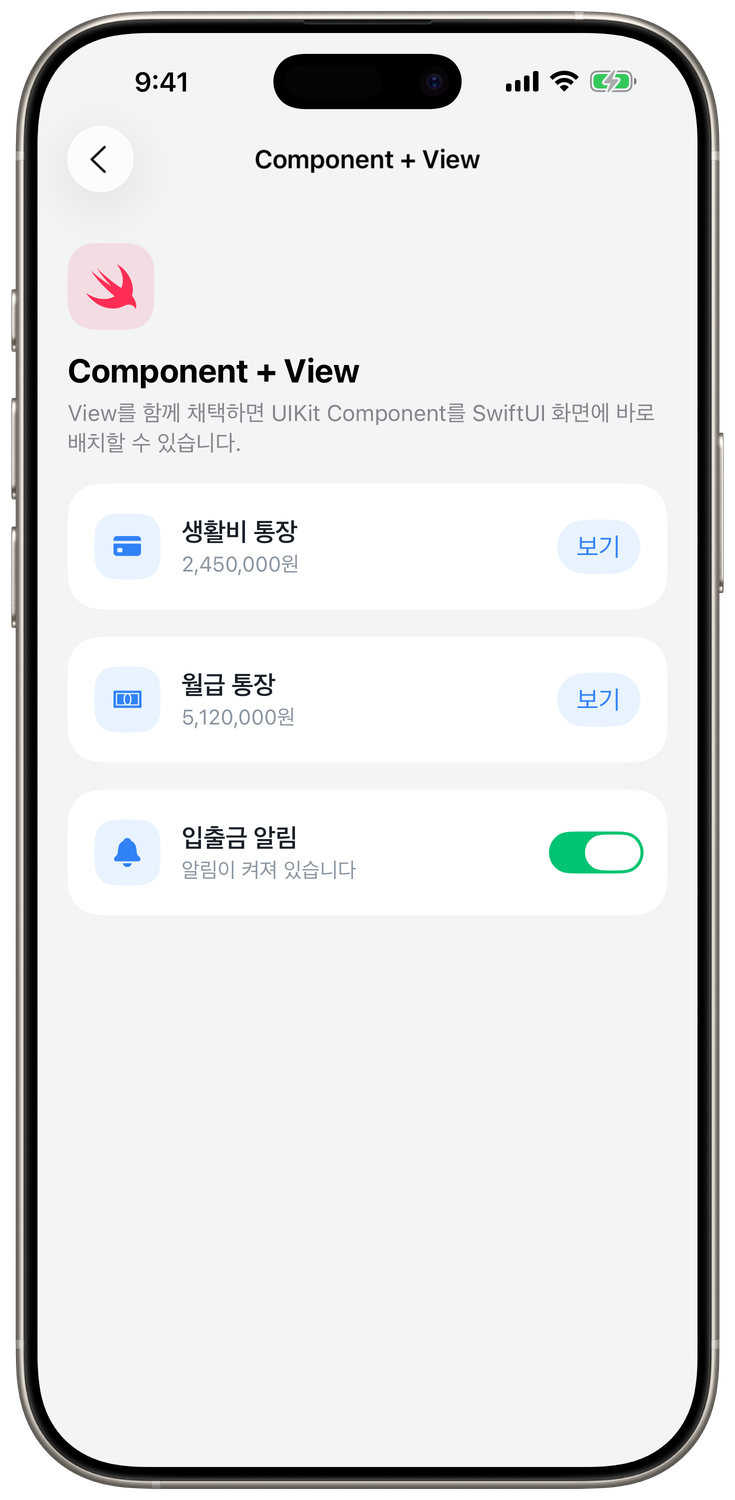
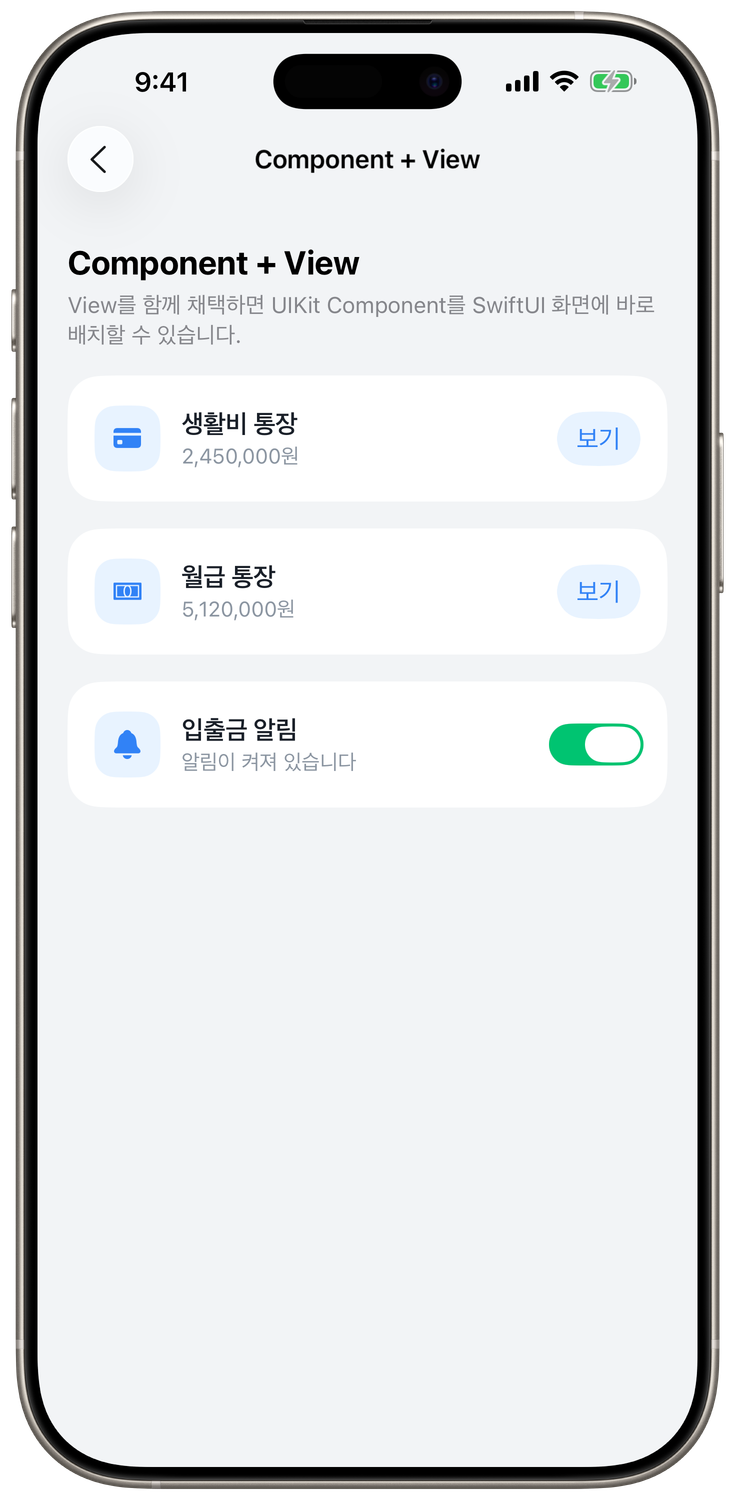
[#59] SwiftUI 예제 로고 제거

diff --git a/Projects/Shared/CollectionViewAdapter/Demo/4. ReadmeCapture/4. ReadmeSwiftUIComponentView.swift b/Projects/Shared/CollectionViewAdapter/Demo/4. ReadmeCapture/4. ReadmeSwiftUIComponentView.swift
@@ -78,27 +78,16 @@ struct ReadmeSwiftUIComponentView: View {
     }
 
     private var introduction: some View {
-        VStack(alignment: .leading, spacing: 14) {
-            Image(systemName: "swift")
-                .font(.system(size: 30, weight: .semibold))
-                .foregroundStyle(.pink)
-                .frame(width: 58, height: 58)
-                .background(
-                    Color.pink.opacity(0.12),
-                    in: RoundedRectangle(cornerRadius: 18)
-                )
+        VStack(alignment: .leading, spacing: 6) {
+            Text("Component + View")
+                .font(.title2.bold())
 
-            VStack(alignment: .leading, spacing: 6) {
-                Text("Component + View")
-                    .font(.title2.bold())
-
-                Text(
-                    "View를 함께 채택하면 UIKit Component를 SwiftUI 화면에 바로 배치할 수 있습니다."
-                )
-                .font(.subheadline)
-                .foregroundStyle(.secondary)
-                .fixedSize(horizontal: false, vertical: true)
-            }
+            Text(
+                "View를 함께 채택하면 UIKit Component를 SwiftUI 화면에 바로 배치할 수 있습니다."
+            )
+            .font(.subheadline)
+            .foregroundStyle(.secondary)
+            .fixedSize(horizontal: false, vertical: true)
         }
         .padding(.horizontal, 20)
     }

diff --git a/Projects/Shared/CollectionViewAdapter/Demo/4. ReadmeCapture/0. ReadmeCaptureRoute.swift b/Projects/Shared/CollectionViewAdapter/Demo/4. ReadmeCapture/0. ReadmeCaptureRoute.swift
@@ -42,7 +42,7 @@ enum ReadmeCaptureRoute: String, CaseIterable, Hashable {
         case .mixedSections:
             "rectangle.3.group.fill"
         case .swiftUIComponent:
-            "swift"
+            "square.stack.3d.up.fill"
         }
     }
 
